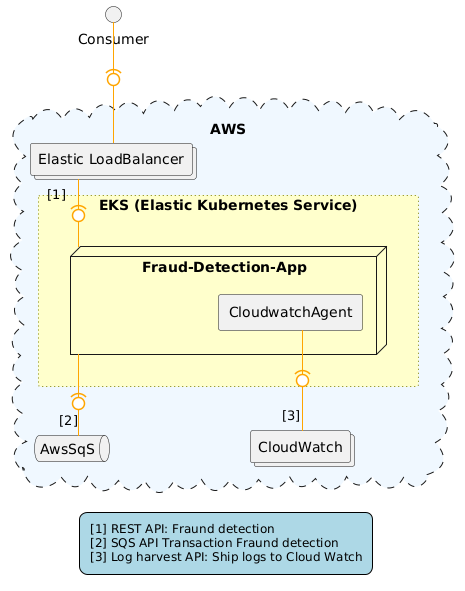
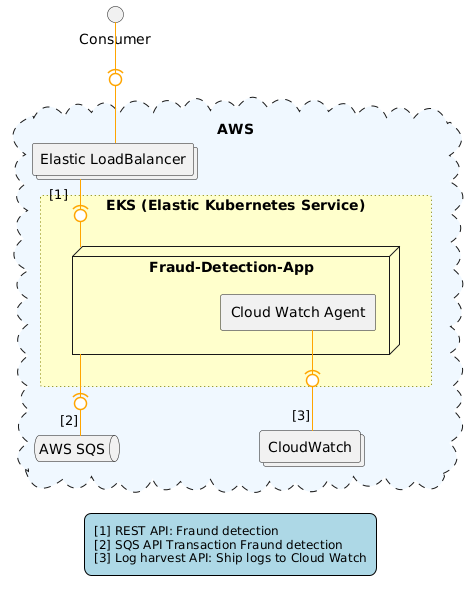
chore: polish a bit on README and architecture diagram.

diff --git a/README.md b/README.md
@@ -93,7 +93,7 @@ Below is a configuration example cloudwatch-agent-config.json for the CloudWatch
 
   - Testcontainers Custom configuration: Refer to this connection: https://www.testcontainers.org/features/configuration/
 
-## Build artifacts
+## Build Artifacts
 * `export JAVA_HOME=<yourJDK17Path>;echo $JAVA_HOME`
 * `mvn clean package`
 * `mvn clean package -pl \!fraud-detection-ct` if you want to skip the component test.
